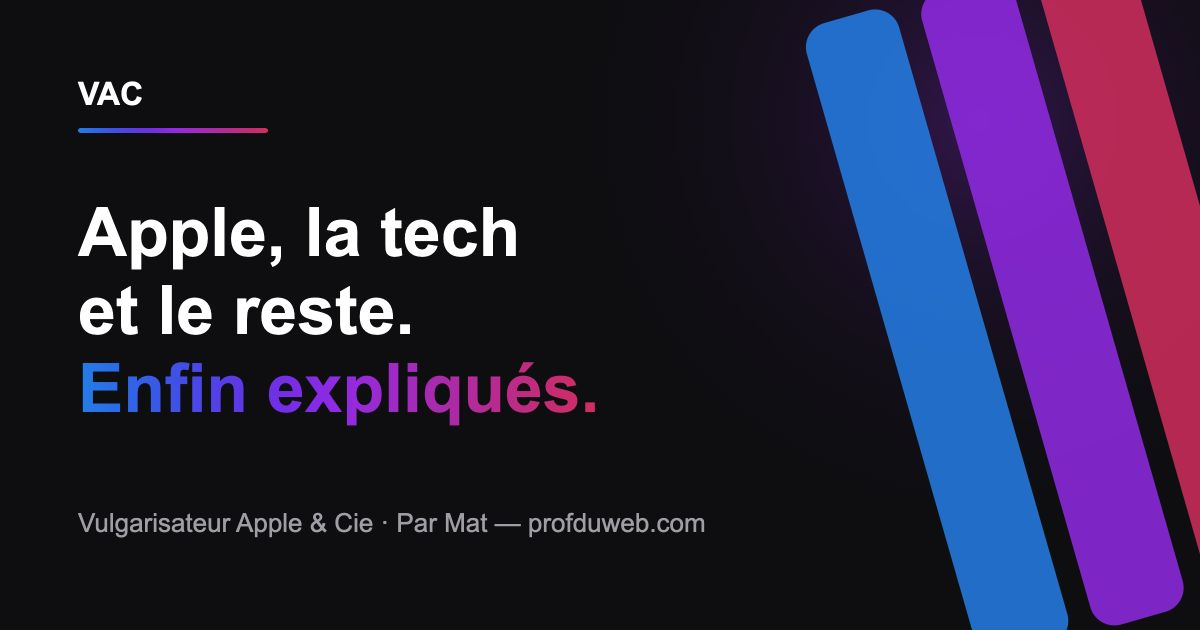
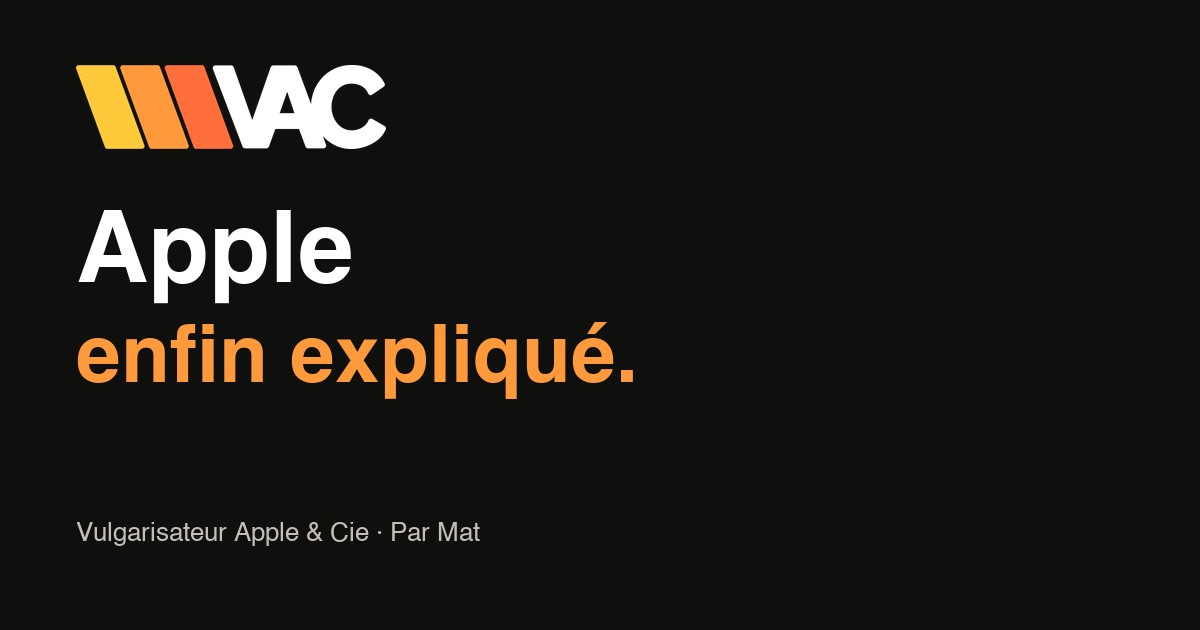
Refresh VAC branding and dark theme

diff --git a/styles.css b/styles.css
@@ -1,13 +1,13 @@
 @import url('https://fonts.googleapis.com/css2?family=DM+Sans:wght@400;500;600;700&family=Manrope:wght@400;500;600;700;800&display=swap');
 
 :root {
-  --ink: #0b0b10;
-  --paper: #f7f5f1;
-  --muted: #6d6b70;
-  --line: rgba(11, 11, 16, .14);
-  --blue: #1689ee;
-  --purple: #a200ed;
-  --pink: #df0068;
+  --ink: #0f0f0e;
+  --paper: #0f0f0e;
+  --muted: #c3beb6;
+  --line: rgba(255, 255, 255, .15);
+  --blue: #FFC93C;
+  --purple: #FF9A3C;
+  --pink: #FF6F3C;
   --max: 1280px;
 }
 
@@ -15,12 +15,12 @@
 html { scroll-behavior: smooth; }
 body {
   margin: 0;
-  color: var(--ink);
+  color: #f7f5f1;
   background: var(--paper);
   font-family: "DM Sans", system-ui, sans-serif;
   -webkit-font-smoothing: antialiased;
 }
-body::selection { color: white; background: var(--purple); }
+body::selection { color: var(--ink); background: var(--purple); }
 a { color: inherit; }
 img { display: block; max-width: 100%; }
 button, a { -webkit-tap-highlight-color: transparent; }
@@ -32,6 +32,7 @@ button, a { -webkit-tap-highlight-color: transparent; }
   left: 8px;
   padding: 10px 14px;
   background: white;
+  color: var(--ink);
   transform: translateY(-150%);
 }
 .skip-link:focus { transform: translateY(0); }
@@ -126,7 +127,7 @@ h1 em {
   letter-spacing: -.06em;
   white-space: nowrap;
   color: transparent;
-  background: linear-gradient(90deg, var(--blue), #9a4dff 48%, #ff278a);
+  background: linear-gradient(90deg, var(--blue), var(--purple) 48%, var(--pink));
   -webkit-background-clip: text;
   background-clip: text;
 }
@@ -153,11 +154,11 @@ h1 em {
 }
 .button:hover { transform: translateY(-2px); }
 .button-primary {
-  color: white;
+  color: var(--ink);
   background: linear-gradient(100deg, var(--blue), var(--purple));
-  box-shadow: 0 12px 34px rgba(22,137,238,.18);
+  box-shadow: 0 12px 34px rgba(255,154,60,.18);
 }
-.button-primary:hover { box-shadow: 0 16px 42px rgba(162,0,237,.24); }
+.button-primary:hover { box-shadow: 0 16px 42px rgba(255,111,60,.24); }
 .button-ghost {
   color: rgba(255,255,255,.84);
   background: rgba(255,255,255,.06);
@@ -212,9 +213,9 @@ h1 em {
   height: 620px;
   border-radius: 34px;
 }
-.mark-blue { background: linear-gradient(#1689ee, rgba(22,137,238,.02)); }
-.mark-purple { background: linear-gradient(#a200ed, rgba(162,0,237,.02)); }
-.mark-pink { background: linear-gradient(#df0068, rgba(223,0,104,.02)); }
+.mark-blue { background: linear-gradient(#FFC93C, rgba(255,201,60,.02)); }
+.mark-purple { background: linear-gradient(#FF9A3C, rgba(255,154,60,.02)); }
+.mark-pink { background: linear-gradient(#FF6F3C, rgba(255,111,60,.02)); }
 .hero-glow { position: absolute; border-radius: 50%; filter: blur(110px); opacity: .15; }
 .hero-glow-one { width: 420px; height: 420px; right: 18%; top: 10%; background: var(--purple); }
 .hero-glow-two { width: 300px; height: 300px; left: 6%; bottom: -10%; background: var(--blue); }
@@ -224,7 +225,7 @@ h1 em {
   margin: auto;
   padding: 120px 24px 95px;
 }
-.section-kicker { color: rgba(16,16,22,.56); }
+.section-kicker { color: rgba(255,255,255,.66); }
 .manifesto h2, .section-heading h2, .club h2, .final-cta h2 {
   margin: 0;
   font-size: clamp(2.5rem, 4.8vw, 4.7rem);
@@ -269,7 +270,7 @@ h1 em {
   padding: 110px max(24px, calc((100vw - var(--max)) / 2));
   overflow: hidden;
   border-top: 1px solid var(--line);
-  background: #efede8;
+  background: var(--paper);
 }
 .testimonials-heading {
   display: flex;
@@ -295,7 +296,7 @@ h1 em {
 .carousel-control {
   min-height: 44px;
   padding: 0;
-  color: var(--ink);
+  color: #f7f5f1;
   border: 0;
   border-bottom: 1px solid currentColor;
   background: transparent;
@@ -323,9 +324,9 @@ h1 em {
   min-height: 310px;
   padding: 34px;
   scroll-snap-align: start;
-  border: 1px solid rgba(11,11,16,.12);
+  border: 1px solid rgba(255,255,255,.15);
   border-radius: 20px;
-  background: rgba(255,255,255,.56);
+  background: rgba(255,255,255,.045);
 }
 .testimonial-card blockquote {
   height: 100%;
@@ -354,7 +355,7 @@ h1 em {
   font-size: .82rem;
 }
 .testimonial-card cite { font-style: normal; font-weight: 700; }
-.testimonial-card cite a { color: var(--ink); text-underline-offset: 3px; }
+.testimonial-card cite a { color: #f7f5f1; text-underline-offset: 3px; }
 .testimonial-card time { color: var(--muted); }
 
 .shop {
@@ -445,7 +446,7 @@ h1 em {
   color: white;
   background: #111118;
 }
-.video-section .section-kicker { color: #a99eff; }
+.video-section .section-kicker { color: #FFC93C; }
 .video-section .section-heading { margin-bottom: 50px; }
 .video-facade {
   position: relative;
@@ -455,9 +456,9 @@ h1 em {
   overflow: hidden;
   border: 1px solid rgba(255,255,255,.11);
   background:
-    radial-gradient(circle at 18% 30%, rgba(22,137,238,.38), transparent 34%),
-    radial-gradient(circle at 82% 64%, rgba(223,0,104,.33), transparent 38%),
-    linear-gradient(135deg, #13131b, #1f1027 55%, #17131d);
+    radial-gradient(circle at 18% 30%, rgba(255,201,60,.25), transparent 34%),
+    radial-gradient(circle at 82% 64%, rgba(255,111,60,.25), transparent 38%),
+    linear-gradient(135deg, #0f0f0e, #251b14 55%, #17130f);
 }
 .video-wordmark {
   position: absolute;
@@ -490,7 +491,7 @@ h1 em {
 .club {
   padding: 120px max(24px, calc((100vw - var(--max)) / 2));
   color: white;
-  background: #15121b;
+  background: var(--paper);
 }
 .club .section-kicker { color: rgba(255,255,255,.56); }
 .club-intro {
@@ -534,14 +535,13 @@ footer {
   height: auto;
   aspect-ratio: 1480 / 403;
   object-fit: contain;
-  filter: brightness(0) invert(1);
 }
 footer p { margin: 0; line-height: 1.65; }
 footer a { color: white; text-underline-offset: 4px; }
 .footer-links { display: flex; gap: 22px; align-self: start; }
 .copyright { grid-column: 1 / -1; padding-top: 32px; border-top: 1px solid rgba(255,255,255,.1); color: rgba(255,255,255,.28); }
 
-:focus-visible { outline: 3px solid #ff68ad; outline-offset: 4px; }
+:focus-visible { outline: 3px solid #FFC93C; outline-offset: 4px; }
 
 @media (max-width: 900px) {
   .site-header { height: 86px; }

diff --git a/index.html b/index.html
@@ -7,7 +7,7 @@
   <meta name="description" content="VAC, la chaîne de Mat (@profduweb) pour mieux utiliser Mac, iPad et iPhone, découvrir des applications, comprendre l’IA et suivre la tech sans jargon.">
   <meta name="author" content="Mat — profduweb.com">
   <meta name="robots" content="index, follow, max-image-preview:large">
-  <meta name="theme-color" content="#0b0b10">
+  <meta name="theme-color" content="#0f0f0e">
   <link rel="canonical" href="https://appleetcompagnie.com/">
 
   <meta property="og:type" content="website">
@@ -16,8 +16,8 @@
   <meta property="og:title" content="VAC — Apple, la tech et le reste. Enfin expliqués.">
   <meta property="og:description" content="Des vidéos de Mat pour comprendre Apple, découvrir de bonnes apps et garder un regard lucide sur l’IA et la tech.">
   <meta property="og:url" content="https://appleetcompagnie.com/">
-  <meta property="og:image" content="https://appleetcompagnie.com/social-card.jpg">
-  <meta property="og:image:secure_url" content="https://appleetcompagnie.com/social-card.jpg">
+  <meta property="og:image" content="https://appleetcompagnie.com/social-card.jpg?v=2">
+  <meta property="og:image:secure_url" content="https://appleetcompagnie.com/social-card.jpg?v=2">
   <meta property="og:image:type" content="image/jpeg">
   <meta property="og:image:width" content="1200">
   <meta property="og:image:height" content="630">
@@ -26,11 +26,11 @@
   <meta name="twitter:card" content="summary_large_image">
   <meta name="twitter:title" content="VAC — Apple, la tech et le reste. Enfin expliqués.">
   <meta name="twitter:description" content="Apple, apps, IA et productivité : des vidéos utiles, accessibles et sans langue de bois.">
-  <meta name="twitter:image" content="https://appleetcompagnie.com/social-card.jpg">
+  <meta name="twitter:image" content="https://appleetcompagnie.com/social-card.jpg?v=2">
   <meta name="twitter:image:alt" content="VAC — Vulgarisateur Apple & Cie, par Mat">
 
-  <link rel="icon" href="favicon.ico" sizes="any">
-  <link rel="apple-touch-icon" href="VAC.png">
+  <link rel="icon" href="favicon.ico?v=2" sizes="any">
+  <link rel="apple-touch-icon" href="apple-touch-icon.png">
   <link rel="manifest" href="site.webmanifest">
   <link rel="preconnect" href="https://www.youtube-nocookie.com">
   <link rel="stylesheet" href="styles.css">
@@ -64,7 +64,7 @@
 
   <header class="site-header">
     <a class="brand" href="#accueil" aria-label="VAC — Retour à l’accueil">
-      <img src="VAC-blanc.svg" alt="VAC — Vulgarisateur Apple & Cie">
+      <img src="VAC-nouveau.png" alt="VAC — Vulgarisateur Apple & Cie">
     </a>
     <nav aria-label="Navigation principale">
       <a href="#comprendre">Comprendre</a>
@@ -320,7 +320,7 @@
 
   <footer>
     <a class="footer-brand" href="#accueil">
-      <img src="VAC.png" alt="VAC" width="1480" height="403">
+      <img src="VAC-nouveau.png" alt="VAC" width="1480" height="402">
     </a>
     <p>Vulgarisateur Apple & Cie<br>Une chaîne de <a href="https://profduweb.com/" target="_blank" rel="noopener">Mat — profduweb.com</a></p>
     <div class="footer-links">
